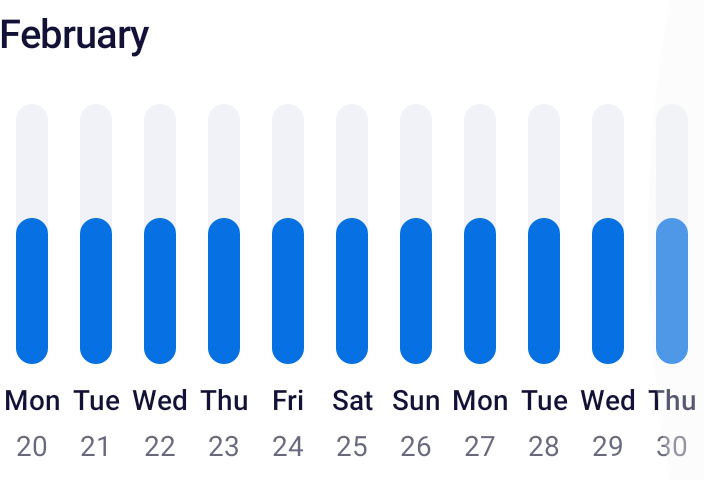
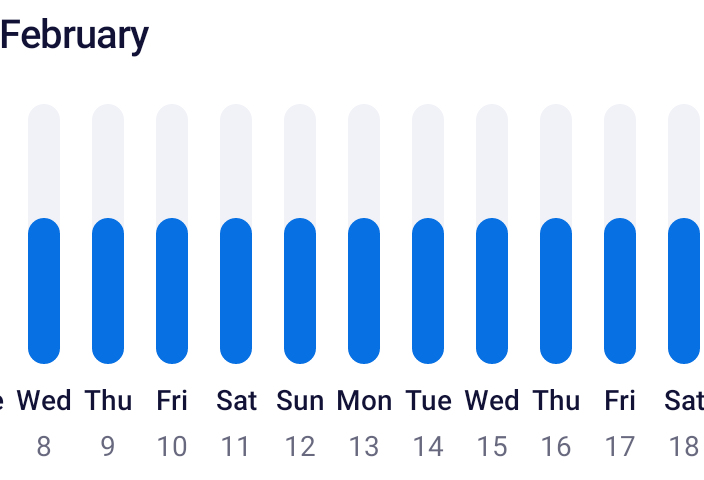
[BPK-3813] Updates tests.

diff --git a/app/src/androidTest/java/net/skyscanner/backpack/barchart/BpkBarchartTests.kt b/app/src/androidTest/java/net/skyscanner/backpack/barchart/BpkBarchartTests.kt
@@ -118,10 +118,8 @@ class BpkBarchartTests : BpkSnapshotTest() {
         )
       )
     }
-    // scrolling list to the end with few swipes
+    // scrolling list with few swipes
     capture {
-      perform(ViewActions.swipeLeft())
-      perform(ViewActions.swipeLeft())
       perform(ViewActions.swipeLeft())
       perform(ViewActions.swipeLeft())
       perform(ViewActions.swipeLeft())
